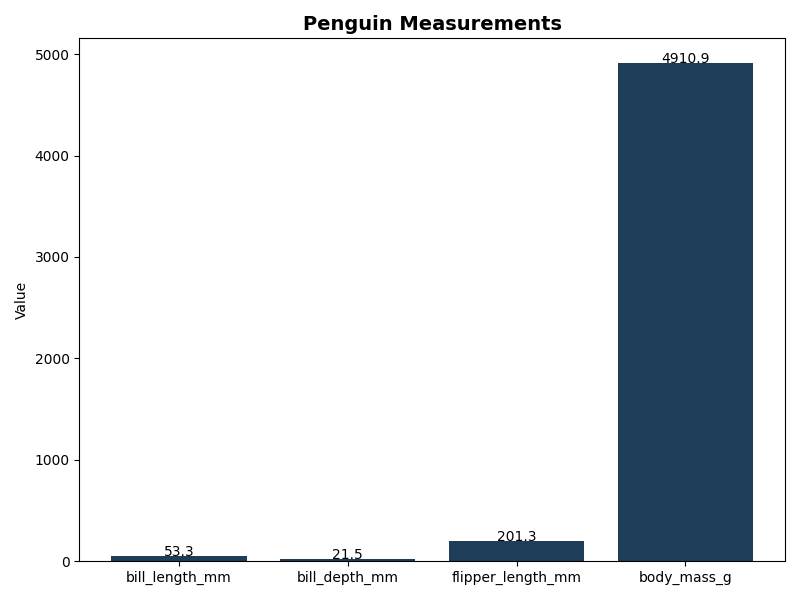
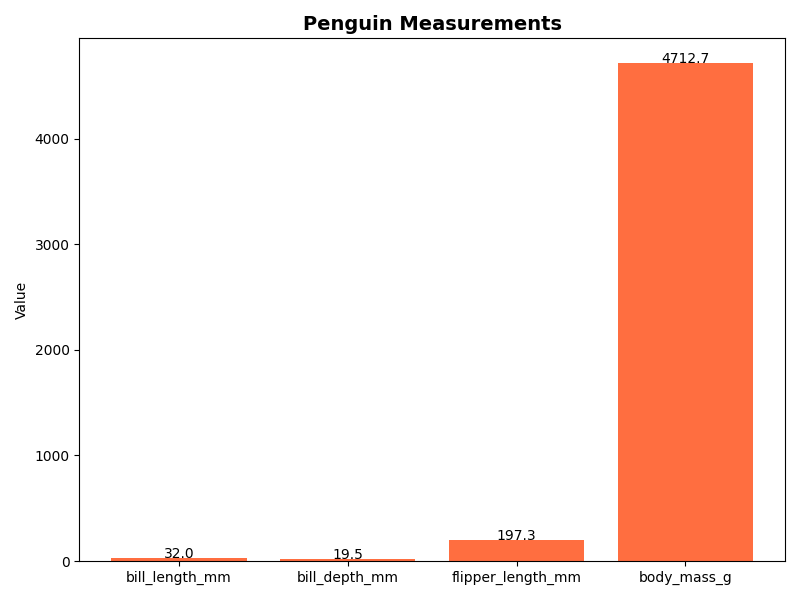
Update penguin prediction for 2025-04-04

diff --git a/index.html b/index.html
@@ -46,18 +46,18 @@
 <body>
     <div class="container">
         <h1>Penguin Prediction Report</h1>
-        <p><strong>Date:</strong> 2025-04-03</p>
-        <p><strong>Time:</strong> 18:42:36</p>
+        <p><strong>Date:</strong> 2025-04-04</p>
+        <p><strong>Time:</strong> 07:36:07</p>
 
         <div class="prediction">
             <h2>Prediction Details</h2>
-            <p><strong>Predicted Species:</strong> Chinstrap</p>
-            <p><strong>Bill Length (mm):</strong> 53.32030580292838</p>
-            <p><strong>Bill Depth (mm):</strong> 21.46204541595156</p>
-            <p><strong>Flipper Length (mm):</strong> 201.32701010089252</p>
-            <p><strong>Body Mass (g):</strong> 4910.940528120084</p>
+            <p><strong>Predicted Species:</strong> Adelie</p>
+            <p><strong>Bill Length (mm):</strong> 31.967078415533656</p>
+            <p><strong>Bill Depth (mm):</strong> 19.525174734730875</p>
+            <p><strong>Flipper Length (mm):</strong> 197.33454157533185</p>
+            <p><strong>Body Mass (g):</strong> 4712.710436355916</p>
             <p><strong>Sex:</strong> </p>
-            <p class="note">Not one of the Penguins of Madagascar</p>
+            <p class="note">This is likely one of the Penguins of Madagascar!</p>
         </div>
 
         <div class="image-container">
